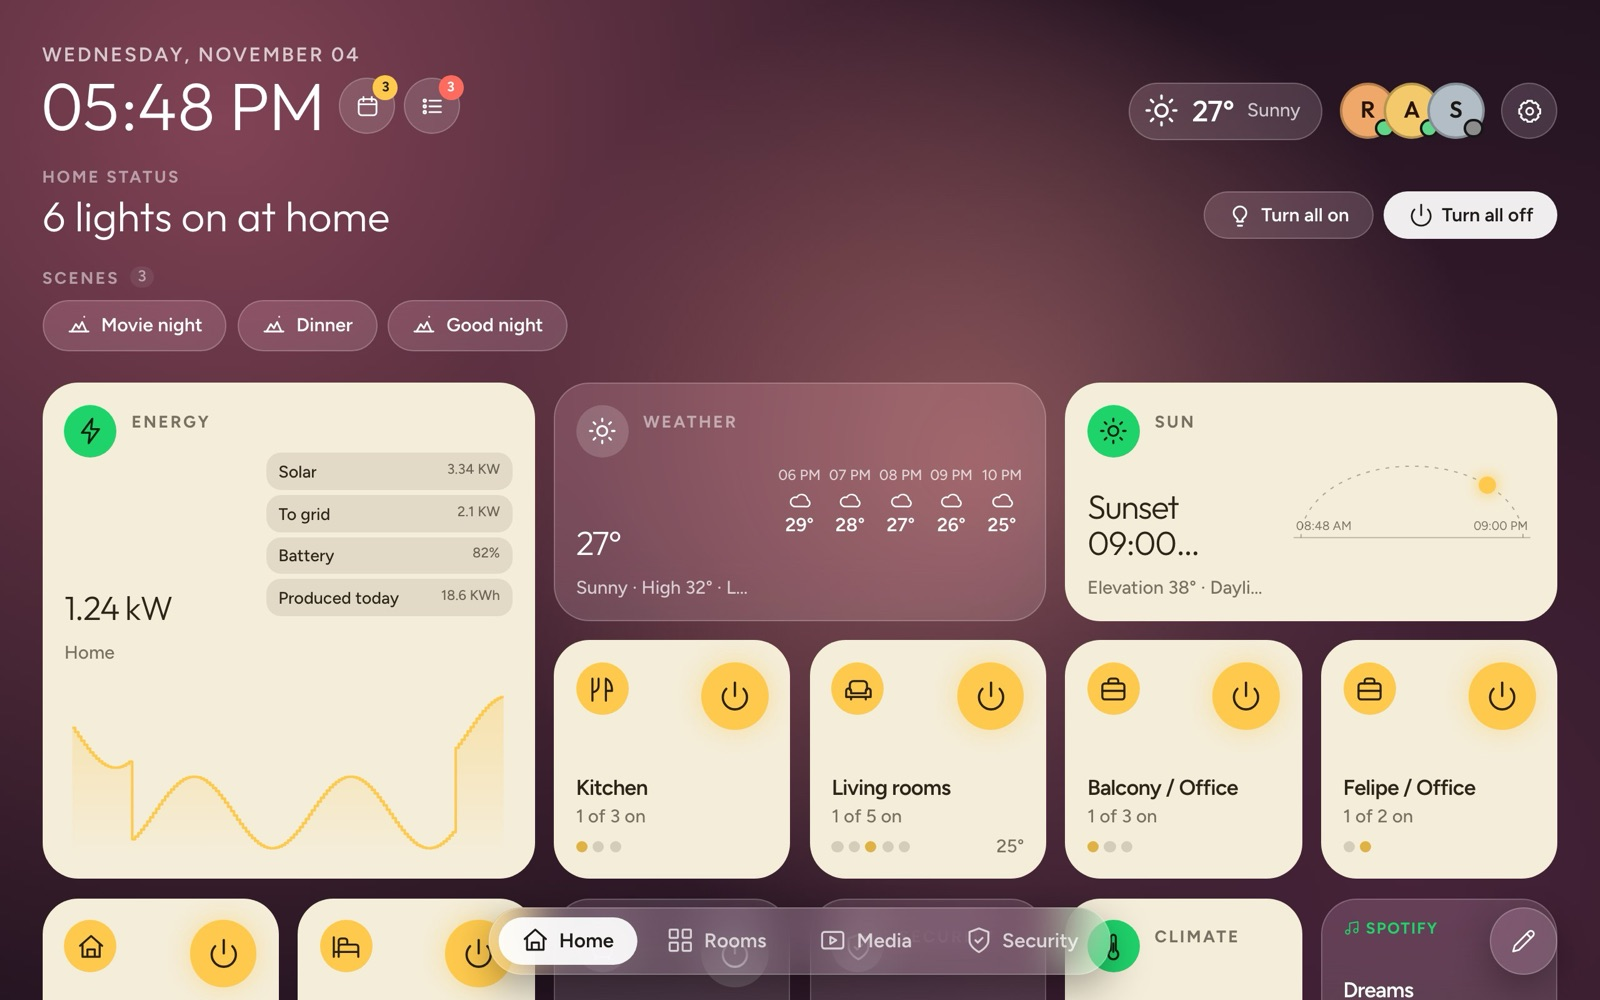
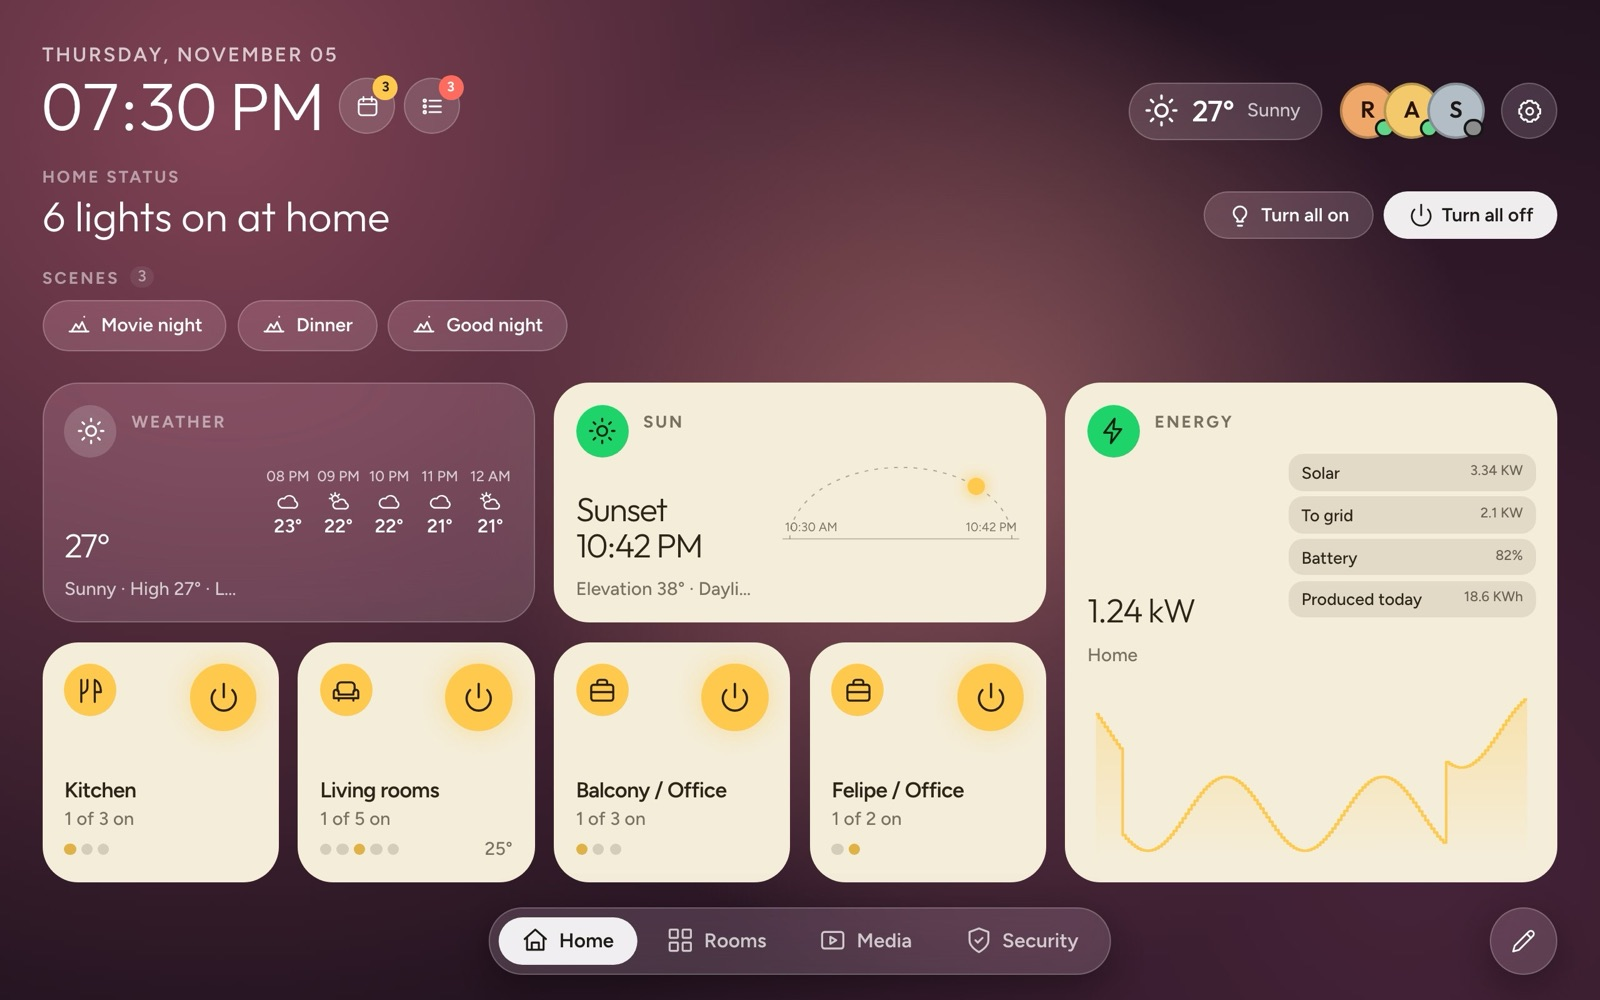
README: special dates and styles

diff --git a/README.md b/README.md
@@ -1,6 +1,6 @@
 # HomeDeck
 
-<p align="center"><img src="https://raw.githubusercontent.com/rodrigo-wa/homedeck/main/images/home.jpg" alt="HomeDeck Home screen on a wall tablet with energy, weather, sun and room cards"></p>
+<p align="center"><img src="https://raw.githubusercontent.com/rodrigo-wa/homedeck/main/images/home.jpg" alt="HomeDeck Home screen with weather, sun, energy and room cards"></p>
 
 <p align="center"><b>A beautiful, local dashboard for Home Assistant that builds itself.</b><br>
 No YAML, no cards to configure: add a light to an area and it shows up in the right room.</p>
@@ -29,6 +29,27 @@ someone suggests them.
 | <img src="https://raw.githubusercontent.com/rodrigo-wa/homedeck/main/images/grid.jpg" alt="Grid layout"> | <img src="https://raw.githubusercontent.com/rodrigo-wa/homedeck/main/images/sidebar.jpg" alt="Sidebar layout"> |
 | **List** | **Focus** |
 | <img src="https://raw.githubusercontent.com/rodrigo-wa/homedeck/main/images/list.jpg" alt="List layout"> | <img src="https://raw.githubusercontent.com/rodrigo-wa/homedeck/main/images/focus.jpg" alt="Focus layout"> |
+
+### Special dates
+
+HomeDeck dresses up for the holidays on its own: a countdown by the clock, a light animation and
+decorations on the cards, following your country. Each date can be turned on or off.
+
+| Christmas | New Year |
+|:---:|:---:|
+| <img src="https://raw.githubusercontent.com/rodrigo-wa/homedeck/main/images/season-christmas.jpg" alt="Christmas: presents on the cards and string lights"> | <img src="https://raw.githubusercontent.com/rodrigo-wa/homedeck/main/images/season-newyear.jpg" alt="New Year: sparkles and fireworks right after midnight"> |
+| **Halloween** | **Birthdays from your calendar** |
+| <img src="https://raw.githubusercontent.com/rodrigo-wa/homedeck/main/images/season-halloween.jpg" alt="Halloween: webs, a dangling spider and a ghost"> | <img src="https://raw.githubusercontent.com/rodrigo-wa/homedeck/main/images/season-birthday.jpg" alt="Birthday: balloons and confetti with the person's name"> |
+
+Easter, Valentine's Day, Carnival, Thanksgiving and your own dates too.
+
+### Your colors, your style
+
+| Aurora | Ocean |
+|:---:|:---:|
+| <img src="https://raw.githubusercontent.com/rodrigo-wa/homedeck/main/images/style-aurora.jpg" alt="Aurora background with energy, weather and sun cards"> | <img src="https://raw.githubusercontent.com/rodrigo-wa/homedeck/main/images/style-ocean.jpg" alt="Ocean background in the Sidebar layout with rounded cards"> |
+| **Wine** | **Graphite** |
+| <img src="https://raw.githubusercontent.com/rodrigo-wa/homedeck/main/images/style-wine.jpg" alt="Wine background in the List layout"> | <img src="https://raw.githubusercontent.com/rodrigo-wa/homedeck/main/images/style-graphite.jpg" alt="Graphite background with sensor charts on the cards"> |
 
 ### Arrange it your way
 
@@ -101,12 +122,14 @@ on macOS). Your rooms, backgrounds and preferences are kept.
   **camera full screen** including WebRTC-only cameras like newer Nest, and optional **weather, sun
   and energy cards** on Home (consumption, solar, grid and battery).
 - Optional **animations:** fans spin, lights glow and washing machines shake while they run.
-- **Special dates:** snow at Christmas, fireworks at New Year, confetti on birthdays from your
-  calendar, and more, following your country. Each one optional.
+- **Special dates:** presents and string lights at Christmas, fireworks at New Year, a spider at
+  Halloween, a bunny at Easter and balloons on birthdays from your calendar, following your
+  country. Each one optional, with a preview in Settings.
 - **Doorbell pop-up:** when the doorbell rings, its camera shows up over the panel, even on the
   screensaver.
 - **Spotify player** (with a default speaker per device), a screensaver with today's events and reminders, scene strip,
-  and, for a wall tablet, options to hide the Home Assistant sidebar and lock editing.
+  and, for a wall tablet, options to hide the Home Assistant sidebar, lock editing and keep the
+  screen on (automatic on an Echo Show).
 - **English, Portuguese, Spanish, German and Polish**, following Home Assistant's language.
 
 ## Plans
